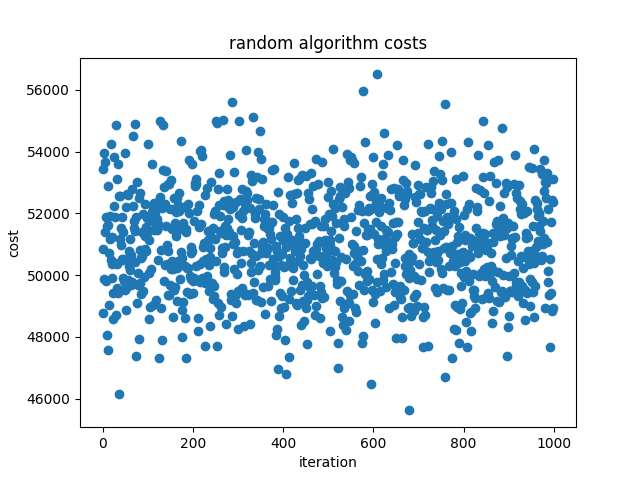
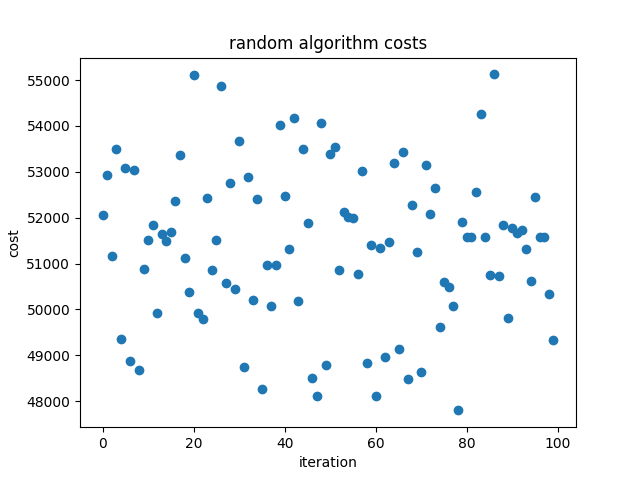
merge

diff --git a/code/algorithms/greedy.py b/code/algorithms/greedy.py
@@ -35,38 +35,45 @@ class Greedy:
 
     def replace_connections(self): 
         """
-        Find the houses with the shortest distance to their second closest battery, 
+        Find the houses with the shortest distance to their next closest battery, 
         connect if capacity of current battery is filled
         """
-        battery_numbers = [*range(0,len(self.grid.batteries.values()))]
+
+        #battery_numbers = [*range(0,len(self.grid.batteries.values()))]
+        random.shuffle(self.grid.batteries)
 
         for battery in self.grid.batteries.values():
-            battery = self.grid.batteries[(random.choice(battery_numbers))]
+            # Randomise the order of the batteries
+            #battery = self.grid.batteries[(random.choice(battery_numbers))]
             while battery.capacity_reached():
                 # Make a dict of distances from houses to their next closest battery
-                second_closest_battery = {}
+                next_closest_battery = {}
                 for house in battery.houses:
                     house_obj = self.grid.houses[house]
 
-                    # Only move a house if there is still batteries left to move it too
+                    # Pick the battery that is second closest after the one we're at now
                     if house_obj.rank < 4:
-                        second_closest = house_obj.battery_distances[(house_obj.rank + 1)]
-                        second_closest_battery[house] = second_closest
+                        next_closest = house_obj.battery_distances[(house_obj.rank + 1)]
+                        next_closest_battery[house] = next_closest
+                    # Go back to the beginning of the battery distance list
+                    else:
+                        house_obj.rank = 0
+                        next_closest = house_obj.battery_distances[(house_obj.rank)]
+                        next_closest_battery[house] = next_closest
 
 
                 # Sort that dict
-                second_closest_battery = sorted(second_closest_battery.items(), key=lambda x: x[1])
+                next_closest_battery = sorted(next_closest_battery.items(), key=lambda x: x[1])
                 
                 # Pick the one with the shortest distance to reconnect
-                replace_house_id = second_closest_battery[0][0]
-                replace_to_battery_id = second_closest_battery[0][1][0]
+                replace_house_id = next_closest_battery[0][0]
+                replace_to_battery_id = next_closest_battery[0][1][0]
 
                 replace_house = self.grid.houses[replace_house_id]
                 # Remove found house from current battery
                 battery.remove_house(replace_house)
                 # Indicate with rank that we've changed batteries
-                if replace_house.rank < 3:
-                    replace_house.rank += 1
+                replace_house.rank += 1
 
                 # Add house to new battery INDEX DIFFERENTLY
                 self.grid.batteries[replace_to_battery_id].add_house(replace_house)
@@ -84,7 +91,8 @@ class Greedy:
         self.battery_distance_list()
 
         # If battery capacity is full, reconnect houses with the shortest distance to the next battery
-        for i in range(10):
+        # for i in range(100):
+        for i in range(100):
 
             self.replace_connections()
             
@@ -98,42 +106,11 @@ class Greedy:
             cable1.lay_cable()
             house.add_cable(cable1)
             
-        for battery in self.grid.batteries.values():
-                print(battery.get_cum_output())
-        print('Output to batteries:')
+        # for battery in self.grid.batteries.values():
+        #         print(battery.get_cum_output())
+        # print('Output to batteries:')
+        # check_capacity = any(battery.capacity_reached() in self.grid.batteries for battery in self.grid.batteries.values())
+        # if check_capacity == False:
+        #     print('Good')
 
 
-
-####################################################
-                       
-            
-
-## Code van live coding ter inspiratie
-
-    # def get_next_node(self, nodes):
-    #     """
-    #     Gets the next node with the most neighbours and removes it from the list.
-    #     """
-    #     nodes.sort(key=lambda node: len(node.neighbours))
-    #     return nodes.pop()
-
-    # def run(self):
-    #     """
-    #     Greedily assigns the lowest costing transmitters to the nodes of the graph.
-    #     """
-    #     nodes = list(self.graph.nodes.values())
-
-    #     node_possibilities = self.transmitters
-
-    #     # Repeat untill no more possible solution or we've assigned all nodes
-    #     while nodes or not node_possibilities:
-    #         node = self.get_next_node(nodes)
-
-    #         # Retrieve all valid possible values for a node
-    #         node_possibilities = node.get_possibilities(self.transmitters)
-
-    #         # Sort them by value in ascending order
-    #         node_possibilities.sort(key=lambda transmitter: transmitter.value)
-
-    #         # Assign the lowest value possibility to the node
-    #         node.value = node_possibilities[0]

diff --git a/main.py b/main.py
@@ -20,19 +20,19 @@ if __name__ == "__main__":
     # --------------------------- baseline --------------------------
     baseline_costs = list()
 
-    for i in range(1000):
+    for i in range(100):
         baseline1 = baseline.Baseline(grid1)
         baseline1.run()
-        baseline_costs.append(baseline1.calc_cost())
-        if baseline1.grid.is_valid():
-            print("hurray")
+        baseline_costs.append(baseline1.grid.calc_cost())
+        # if baseline1.grid.is_valid():
+        #     print("hurray")
     
-    visualise_costs.visualise_costs(random_costs, "random")
+    visualise_costs.visualise_costs(baseline_costs, "random")
     
     # --------------------------- original greedy--------------------------
     # greedy1_costs = list()
 
-    # for i in range(10000):
+    # for i in range(1000):
     #     greedy1 = original_greedy.Greedy(grid1)
 
     #     try:
@@ -42,21 +42,21 @@ if __name__ == "__main__":
 
     #     if greedy1.grid.is_valid():
     #         print("hurray")
-            # greedy1_costs.append(greedy1.grid.calc_cost())
+    #     greedy1_costs.append(greedy1.grid.calc_cost())
 
     # visualise_costs.visualise_costs(greedy1_costs, "greedy1")
 
     # --------------------------- greedy 2 --------------------------
-    greedy2_costs = list()
+    # greedy2_costs = list()
     
-    for i in range(10):
-        greedy2 = greedy.Greedy(grid1)
-        greedy2.run_greedy()
-        # fixed_greedy = fix_greedy.Fix_greedy(greedy2.grid)
-        # fixed_greedy.run2()
-        greedy2_costs.append(greedy2.grid.calc_cost())
+    # for i in range(100):
+    #     greedy2 = greedy.Greedy(grid1)
+    #     greedy2.run_greedy()
+    #     # fixed_greedy = fix_greedy.Fix_greedy(greedy2.grid)
+    #     # fixed_greedy.run2()
+    #     greedy2_costs.append(greedy2.grid.calc_cost())
 
-    visualise_costs.visualise_costs(greedy2_costs, "greedy2")
+    # visualise_costs.visualise_costs(greedy2_costs, "greedy2")
 
     # --------------------------- Hill Climber ---------------------------------
     # print("Setting up Hill Climber...")
@@ -212,4 +212,4 @@ if __name__ == "__main__":
 
 
 # --------------------------- visualisation --------------------------
-#visualise_cables.visualise(greedy2.grid)
+visualise_cables.visualise(baseline1.grid)

diff --git a/code/algorithms/baseline.py b/code/algorithms/baseline.py
@@ -21,11 +21,16 @@ class Baseline:
             # cum_max_output = 1500 * 5 = 7500
             # cum_cap = 1507 * 5 = 7535
             # keep picking a random battery until you've found one that has enough space
-            while random_battery.capacity_left() < house.max_output:
+            while random_battery.capacity_reached():
                 random_battery = random.choice(self.grid.batteries)
             
             random_battery.add_house(house)
+            house.battery = random_battery.id
             cable1 = cable.Cable(house = house, battery = random_battery)
             cable1.lay_cable()
             house.add_cable(cable1)
+
+            # for battery in self.grid.batteries.values():
+            #     print(battery.get_cum_output())
+            # print('Output to batteries:')
 

diff --git a/code/algorithms/original_greedy.py b/code/algorithms/original_greedy.py
@@ -36,8 +36,12 @@ class Greedy:
                 
             # if closest_battery.capacity_left() < house.max_output:
             closest_battery.add_house(house)
+            house.battery = closest_battery.id
             cable1 = cable.Cable(house = house, battery = closest_battery)
             cable1.lay_cable()
             house.add_cable(cable1)
             # else:
             #     break
+        # for battery in self.grid.batteries.values():
+        #     print(battery.get_cum_output())
+        # print('Output to batteries:')

diff --git a/code/visualisations/visualise_costs.py b/code/visualisations/visualise_costs.py
@@ -5,6 +5,7 @@ import numpy as np
 
 def visualise_costs(costs, algo):
     print(algo, sum(costs)/len(costs))
+    print(algo, min(costs))
 
     plt.figure()
     plt.title(f"{algo} algorithm costs")
